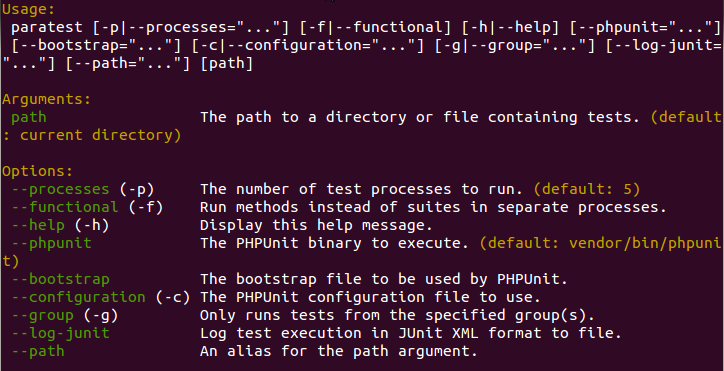
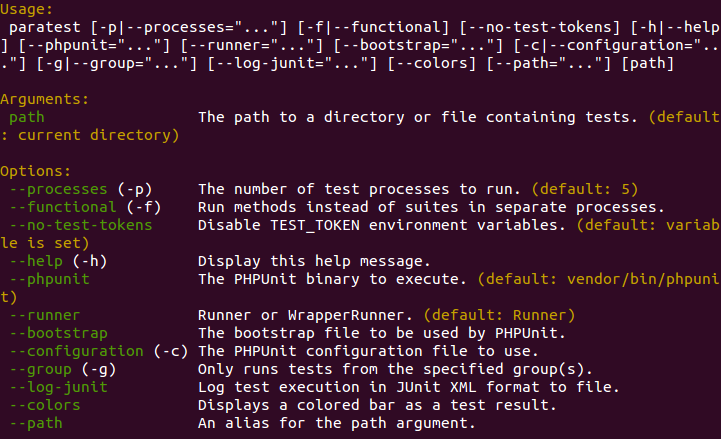
colored bars update readme and usage screenshot

diff --git a/README.md b/README.md
@@ -22,9 +22,9 @@ Usage
 After installation, the binary can be found at `vendors/bin/paratest`. Usage is as follows:
 
 ```
-paratest [-p|--processes="..."] [-f|--functional] [-h|--help] [--phpunit="..."]
-[--bootstrap="..."] [-c|--configuration="..."] [-g|--group="..."] [--log-junit="..."]
-[--path="..."] [path]
+paratest [-p|--processes="..."] [-f|--functional] [--no-test-tokens] [-h|--help]
+[--phpunit="..."] [--runner="..."] [--bootstrap="..."] [-c|--configuration="..."]
+[-g|--group="..."] [--log-junit="..."] [--colors] [--path="..."] [path]
 ```
 
 ![ParaTest Usage](https://raw.github.com/brianium/paratest/master/paratest-usage.png "ParaTest Console Usage")
